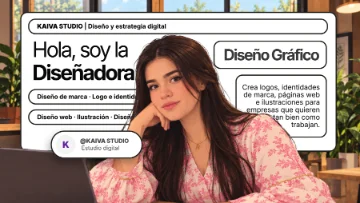
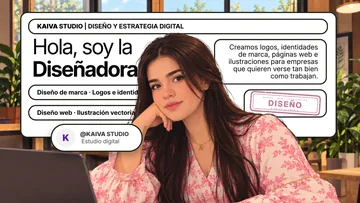
Quienes somos: fichas nuevas de Mateo y Sara con sellos (#119)
Claude-Session: https://claude.ai/code/session_01GHZvfhrEvsATY3kq1jdZrV

diff --git a/nosotros/index.html b/nosotros/index.html
@@ -1128,8 +1128,8 @@ html.has-cursor input,html.has-cursor textarea{cursor:text!important}
     <header class="hero ns-hero" id="nsHero">
       <div class="hglow" aria-hidden="true"></div>
       <div class="nsfs">
-        <button class="nsf" type="button" data-ql="mateo" tabindex="-1" aria-hidden="true" style="--i:0;--r:-5deg"><span class="nsf-doc"><span class="nsf-pv"><img src="/assets/inicio/ficha-mateo-min.webp" alt="" width="360" height="203" loading="lazy"></span><span class="nsf-ext">PNG</span></span><b>Mateo.png</b><small>Desarrollador web</small></button>
-        <button class="nsf" type="button" data-ql="disenadora" tabindex="-1" aria-hidden="true" style="--i:1;--r:4deg"><span class="nsf-doc"><span class="nsf-pv"><img src="/assets/inicio/ficha-disenadora-min.webp" alt="" width="360" height="203" loading="lazy"></span><span class="nsf-ext">PNG</span></span><b>Sara.png</b><small>Diseñadora gráfica</small></button>
+        <button class="nsf" type="button" data-ql="mateo" tabindex="-1" aria-hidden="true" style="--i:0;--r:-5deg"><span class="nsf-doc"><span class="nsf-pv"><img src="/assets/inicio/ficha-mateo-min.webp?v=2" alt="" width="360" height="203" loading="lazy"></span><span class="nsf-ext">PNG</span></span><b>Mateo.png</b><small>Desarrollador web</small></button>
+        <button class="nsf" type="button" data-ql="disenadora" tabindex="-1" aria-hidden="true" style="--i:1;--r:4deg"><span class="nsf-doc"><span class="nsf-pv"><img src="/assets/inicio/ficha-disenadora-min.webp?v=2" alt="" width="360" height="203" loading="lazy"></span><span class="nsf-ext">PNG</span></span><b>Sara.png</b><small>Diseñadora gráfica</small></button>
       </div>
       <div class="hero-copy">
         <button class="pill ptog" type="button" aria-pressed="false" aria-label="Cambiar entre Quiénes somos y Kaiva Studio"><i class="pill-thumb" aria-hidden="true"></i><span class="seg on">Quiénes somos</span><span class="seg">Kaiva Studio</span></button>
@@ -1206,7 +1206,7 @@ html.has-cursor input,html.has-cursor textarea{cursor:text!important}
     }
     filePos();setTimeout(filePos,1300);window.addEventListener('resize',function(){pillPos();filePos()});
     /* abrir un archivo = vista previa como en el Mac */
-    var QL={mateo:{src:'/assets/inicio/ficha-mateo.webp',name:'Mateo.png',alt:'Ficha de Mateo, desarrollador web de Kaiva Studio'},disenadora:{src:'/assets/inicio/ficha-disenadora.webp',name:'Sara.png',alt:'Ficha de la diseñadora gráfica de Kaiva Studio'}};
+    var QL={mateo:{src:'/assets/inicio/ficha-mateo.webp?v=2',name:'Mateo.png',alt:'Ficha de Mateo, desarrollador web de Kaiva Studio'},disenadora:{src:'/assets/inicio/ficha-disenadora.webp?v=2',name:'Sara.png',alt:'Ficha de la diseñadora gráfica de Kaiva Studio'}};
     var ql=document.getElementById('ql'),qlImg=document.getElementById('qlImg'),qlName=document.getElementById('qlName'),qlFrom=null;
     function qlOpen(k,from){var d=QL[k];if(!d)return;qlFrom=from;qlImg.src=d.src;qlImg.alt=d.alt;qlName.textContent=d.name;ql.hidden=false;requestAnimationFrame(function(){ql.classList.add('open')});ql.querySelector('.ql-lights button').focus({preventScroll:true})}
     function qlClose(){ql.classList.remove('open');setTimeout(function(){ql.hidden=true},300);if(qlFrom)qlFrom.focus({preventScroll:true})}
